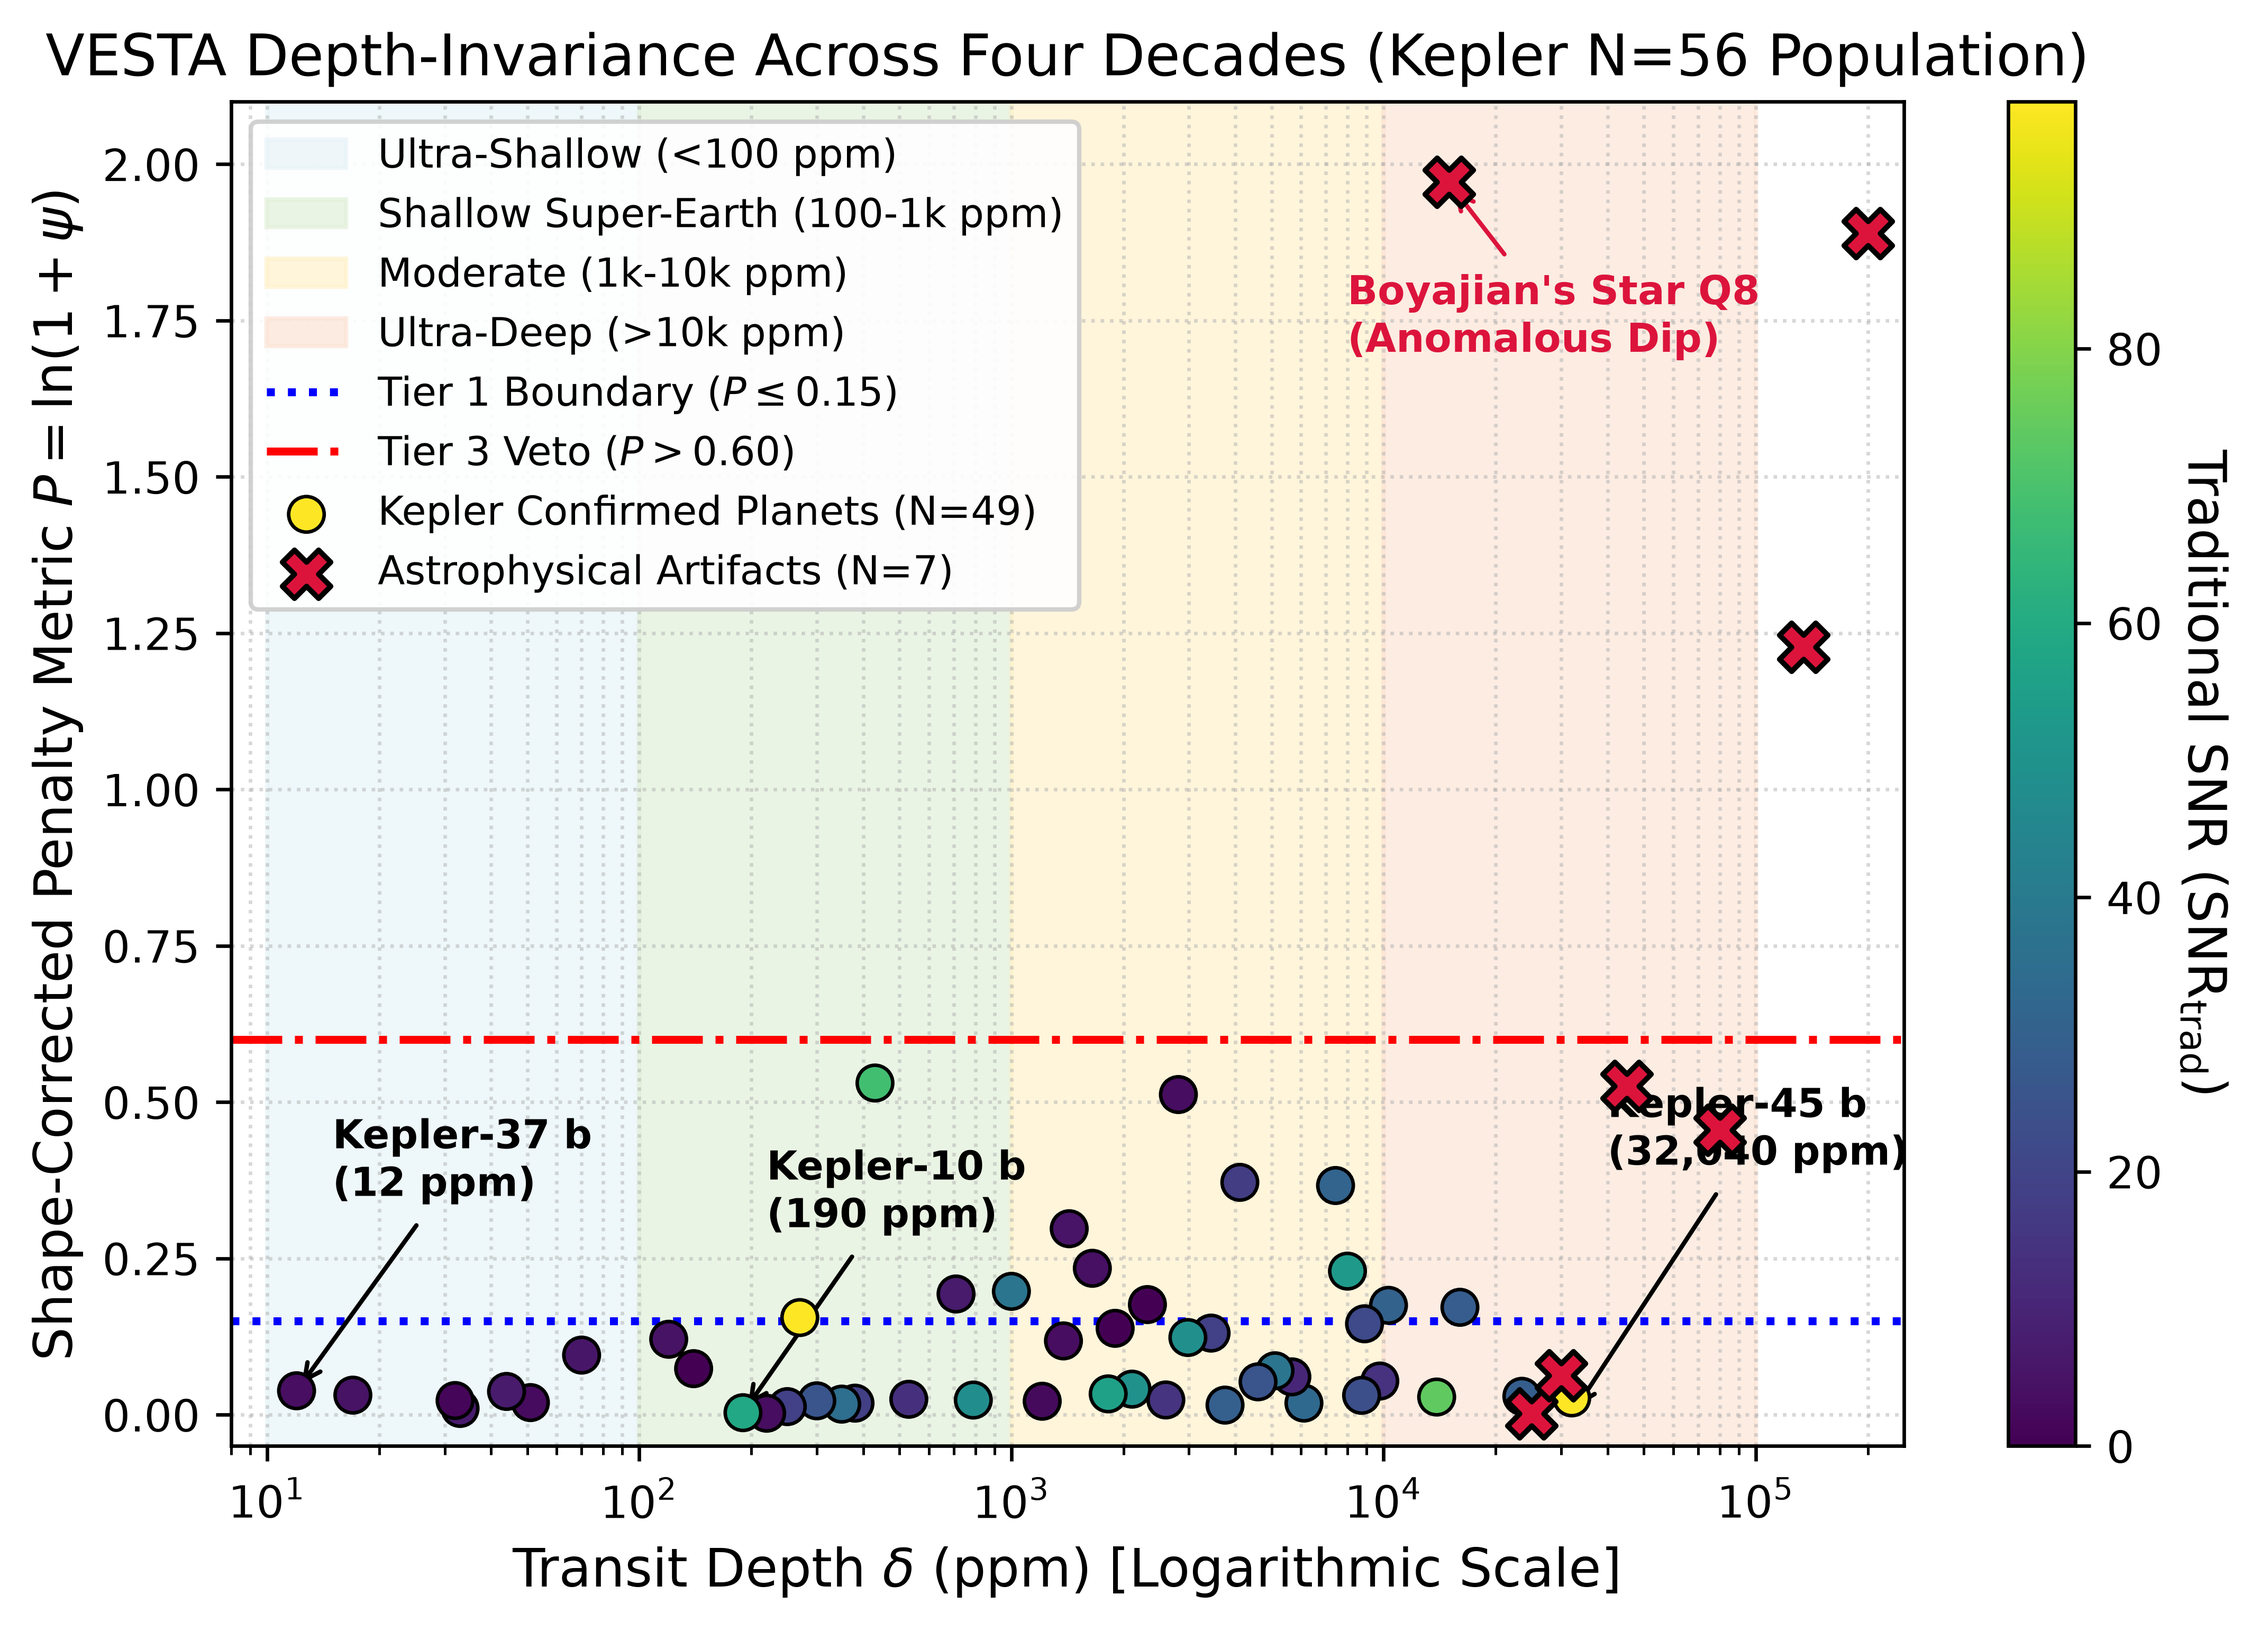
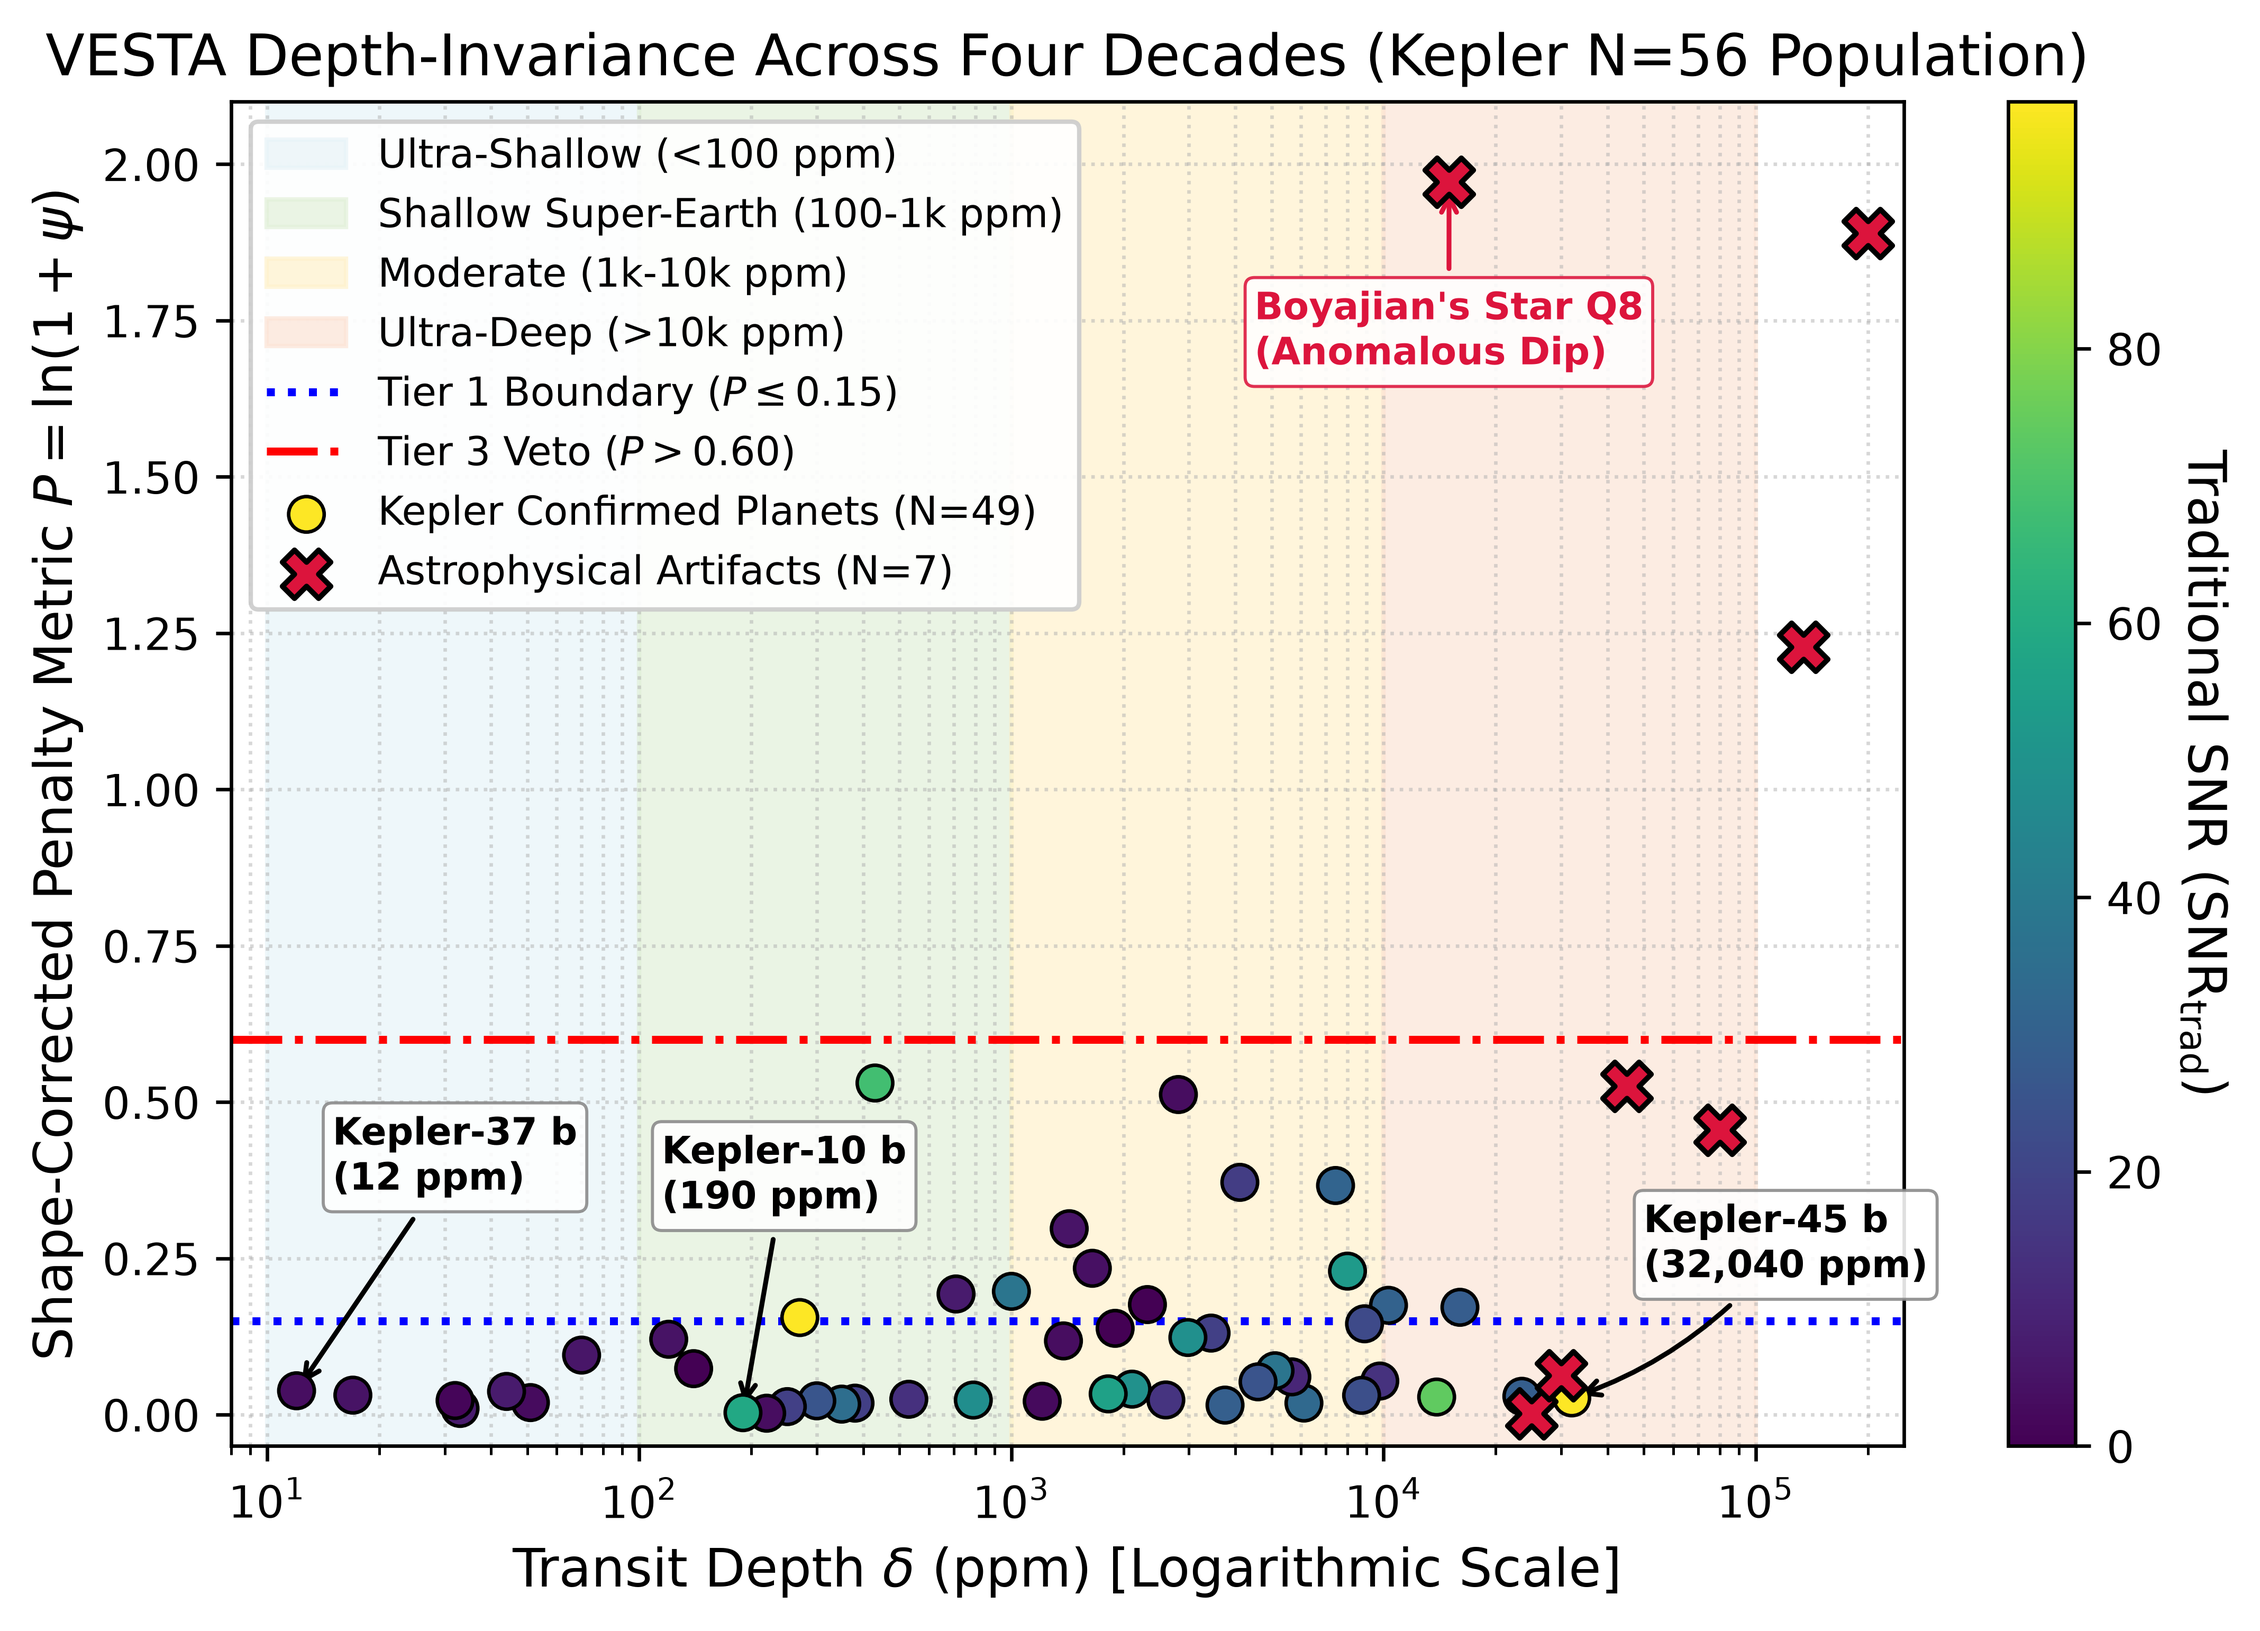
fix(figures): resolve annotation text overlaps in Figure 2

diff --git a/scripts/generate_population_figures.py b/scripts/generate_population_figures.py
@@ -139,17 +139,27 @@ def plot_fig2_depth_invariance():
     ax.set_title('VESTA Depth-Invariance Across Four Decades (Kepler N=56 Population)')
     ax.grid(True, which='both', linestyle=':', alpha=0.5)
 
-    # Annotations for extreme benchmark systems
-    ax.annotate('Kepler-37 b\n(12 ppm)', xy=(12, 0.038), xytext=(15, 0.35),
-                arrowprops=dict(arrowstyle='->', lw=1.0, color='black'), fontsize=9, fontweight='bold')
-    ax.annotate('Kepler-10 b\n(190 ppm)', xy=(190, 0.003), xytext=(220, 0.30),
-                arrowprops=dict(arrowstyle='->', lw=1.0, color='black'), fontsize=9, fontweight='bold')
-    ax.annotate('Kepler-45 b\n(32,040 ppm)', xy=(32040, 0.0005), xytext=(40000, 0.40),
-                arrowprops=dict(arrowstyle='->', lw=1.0, color='black'), fontsize=9, fontweight='bold')
-    ax.annotate("Boyajian's Star Q8\n(Anomalous Dip)", xy=(15000, 1.97), xytext=(8000, 1.70),
-                arrowprops=dict(arrowstyle='->', lw=1.0, color='crimson'), fontsize=9, fontweight='bold', color='crimson')
+    # Annotations for extreme benchmark systems with background bounding boxes
+    box_props = dict(boxstyle='round,pad=0.25', facecolor='white', alpha=0.88, edgecolor='#888888', lw=0.7)
 
-    ax.legend(loc='upper left', fontsize=9, framealpha=0.9)
+    ax.annotate('Kepler-37 b\n(12 ppm)', xy=(12, 0.038), xytext=(15, 0.36),
+                arrowprops=dict(arrowstyle='->', lw=1.1, color='black'),
+                fontsize=8.5, fontweight='bold', bbox=box_props)
+
+    ax.annotate('Kepler-10 b\n(190 ppm)', xy=(190, 0.003), xytext=(115, 0.33),
+                arrowprops=dict(arrowstyle='->', lw=1.1, color='black'),
+                fontsize=8.5, fontweight='bold', bbox=box_props)
+
+    ax.annotate('Kepler-45 b\n(32,040 ppm)', xy=(32040, 0.0269), xytext=(50000, 0.22),
+                arrowprops=dict(arrowstyle='->', lw=1.1, color='black', connectionstyle="arc3,rad=-0.15"),
+                fontsize=8.5, fontweight='bold', bbox=box_props)
+
+    ax.annotate("Boyajian's Star Q8\n(Anomalous Dip)", xy=(15000, 1.97), xytext=(4500, 1.68),
+                arrowprops=dict(arrowstyle='->', lw=1.1, color='crimson'),
+                fontsize=8.5, fontweight='bold', color='crimson',
+                bbox=dict(boxstyle='round,pad=0.25', facecolor='white', alpha=0.88, edgecolor='crimson', lw=0.7))
+
+    ax.legend(loc='upper left', fontsize=9, framealpha=0.92)
 
     p1 = os.path.join(OUT_DIR, 'Figure2_DepthInvariance.png')
     p2 = 'Figure2_DepthInvariance.png'
